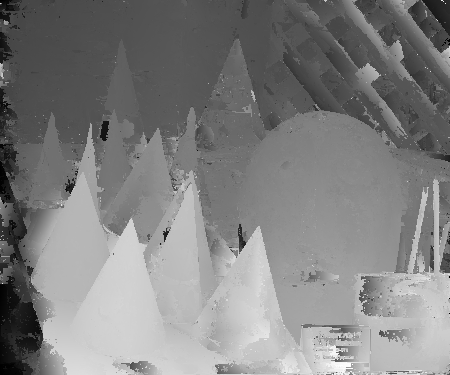
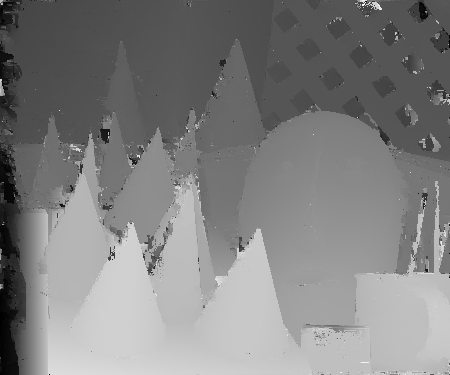
2022_08_15_FixBug_PatchMatchStereoΔΔ

diff --git a/CostComputer.hpp b/CostComputer.hpp
@@ -15,7 +15,7 @@ class CostComputer {
 public:
     /** \brief 代价计算器默认构造 */
     CostComputer() : _imgLeft(nullptr), _imgRight(nullptr), _width(0), _height(0),
-                     _patchSize(0), _minDisp(0), _maxDisp(0) {}
+                     _patchSize(0), _minDisparity(0), _maxDisparity(0) {}
 
     /**
      * \brief 代价计算器初始化
@@ -28,14 +28,14 @@ public:
      * \param max_disp		最大视差
      */
     CostComputer(const uint8 *imgLeft, const uint8 *imgRight, const sint32 &width, const sint32 &height,
-                 const sint32 &patchSize, const sint32 &minDisp, const sint32 &maxDisp) {
+                 const sint32 &patchSize, const sint32 &minDisparity, const sint32 &maxDisparity) {
         _imgLeft = imgLeft;
         _imgRight = imgRight;
         _width = width;
         _height = height;
         _patchSize = patchSize;
-        _minDisp = minDisp;
-        _maxDisp = maxDisp;
+        _minDisparity = minDisparity;
+        _maxDisparity = maxDisparity;
     }
 
     /** \brief 代价计算器析构 */
@@ -64,8 +64,8 @@ public:
     sint32 _patchSize;
 
     /** \brief 最小最大视差 */
-    sint32 _minDisp;
-    sint32 _maxDisp;
+    sint32 _minDisparity;
+    sint32 _maxDisparity;
 };
 
 /**
@@ -97,10 +97,10 @@ public:
                     const PGradient *gradLeft, const PGradient *gradRight,
                     const sint32 &width, const sint32 &height,
                     const sint32 &patchSize,
-                    const sint32 &minDisp, const sint32 &maxDisp,
+                    const sint32 &minDisparity, const sint32 &maxDisparity,
                     const float32 &gamma, const float32 &alpha,
                     const float32 &tauCol, const float32 tauGrad) :
-            CostComputer(imgLeft, imgRight, width, height, patchSize, minDisp, maxDisp) {
+            CostComputer(imgLeft, imgRight, width, height, patchSize, minDisparity, maxDisparity) {
         _gradLeft = gradLeft;
         _gradRight = gradRight;
         _gamma = gamma;
@@ -170,7 +170,7 @@ public:
                 // 计算视差值
                 const float32 d = p.getDisparity(xL, yL);
 
-                if (d < float32(_minDisp) || d > float32(_maxDisp)) {
+                if (d < float32(_minDisparity) || d > float32(_maxDisparity)) {
                     cost += COST_PUNISH;
                     continue;
                 }

diff --git a/main.cpp b/main.cpp
@@ -3,13 +3,13 @@
 #include <opencv2/opencv.hpp>
 
 void dispMatNorm(const sint32 &width, const sint32 &height, const float32 *dispMap, cv::Mat &dispMat) {
-    float32 minDisp = FLT_MAX, maxDisp = FLT_MIN;
+    float32 minDisparity = FLT_MAX, maxDisparity = FLT_MIN;
     for (sint32 i = 0; i < height; i++) {
         for (sint32 j = 0; j < width; j++) {
             const float32 disp = std::abs(dispMap[i * width + j]);
             if (disp != Invalid_Float) {
-                minDisp = std::min(minDisp, disp);
-                maxDisp = std::max(maxDisp, disp);
+                minDisparity = std::min(minDisparity, disp);
+                maxDisparity = std::max(maxDisparity, disp);
             }
         }
     }
@@ -19,7 +19,7 @@ void dispMatNorm(const sint32 &width, const sint32 &height, const float32 *dispM
             if (disp == Invalid_Float) {
                 dispMat.data[i * width + j] = 0;
             } else {
-                dispMat.data[i * width + j] = static_cast<uchar>((disp - minDisp) / (maxDisp - minDisp) * 255);
+                dispMat.data[i * width + j] = static_cast<uchar>((disp - minDisparity) / (maxDisparity - minDisparity) * 255);
             }
         }
     }
@@ -34,11 +34,11 @@ int main() {
     cv::Mat imgRight = cv::imread(pathRight, cv::IMREAD_COLOR);
 
     if (imgLeft.data == nullptr || imgRight.data == nullptr) {
-        std::cout << "读取影像失败！" << std::endl;
+        std::cout << "Read Image Failed!" << std::endl;
         return -1;
     }
     if (imgLeft.rows != imgRight.rows || imgLeft.cols != imgRight.cols) {
-        std::cout << "左右影像尺寸不一致！" << std::endl;
+        std::cout << "Image Size is Inconsistent!" << std::endl;
         return -1;
     }
 
@@ -77,7 +77,7 @@ int main() {
     // t_grad
     psmOption._tauGrad = 2.0f;
     // 传播迭代次数
-    psmOption._numIters = 3;
+    psmOption._numIters = 1;
     // 前端平行窗口
     psmOption._isForceFpw = false;
     // 整数视差精度

diff --git a/PatchMatchStereo.cpp b/PatchMatchStereo.cpp
@@ -218,11 +218,11 @@ void PatchMatchStereo::computeGradient() {
         auto *grad = (n == 0) ? _gradLeft : _gradRight;
         for (sint32 y = 1; y < height - 1; y++) {
             for (sint32 x = 1; x < width - 1; x++) {
-                const auto grad_x =
+                const auto gradX =
                         (-gray[(y - 1) * width + x - 1] + gray[(y - 1) * width + x + 1]) +
                         (-2 * gray[y * width + x - 1] + 2 * gray[y * width + x + 1]) +
                         (-gray[(y + 1) * width + x - 1] + gray[(y + 1) * width + x + 1]);
-                const auto grad_y =
+                const auto gradY =
                         (
                                 -gray[(y - 1) * width + x - 1]
                                 - 2 * gray[(y - 1) * width + x]
@@ -233,8 +233,8 @@ void PatchMatchStereo::computeGradient() {
                                 2 * gray[(y + 1) * width + x] +
                                 gray[(y + 1) * width + x + 1]
                         );
-                grad[y * width + x]._x = sint16(grad_x);
-                grad[y * width + x]._y = sint16(grad_y);
+                grad[y * width + x]._x = sint16(gradX / 8);
+                grad[y * width + x]._y = sint16(gradY / 8);
             }
         }
     }

diff --git a/PMSPropagation.cpp b/PMSPropagation.cpp
@@ -152,8 +152,8 @@ void PMSPropagation::spatialPropagation(const sint32 &x, const sint32 &y, const 
 }
 
 void PMSPropagation::planeRefine(const sint32 &x, const sint32 &y) {
-    auto minDisp = _option._minDisparity;
-    auto maxDisp = _option._maxDisparity;
+    auto minDisparity = _option._minDisparity;
+    auto maxDisparity = _option._maxDisparity;
 
     // 像素p的平面、代价、视差、法线
     auto &planeP = _planeLeft[y * _width + x];
@@ -162,7 +162,7 @@ void PMSPropagation::planeRefine(const sint32 &x, const sint32 &y) {
     PVector3f normP = planeP.getNormal();
 
     // 迭代条件
-    float32 dispUpdate = float32(maxDisp - minDisp) / 2.0f;
+    float32 dispUpdate = float32(maxDisparity - minDisparity) / 2.0f;
     float32 normUpdate = 1.0f;
     const float32 stopThres = 0.1f;
 
@@ -184,7 +184,7 @@ void PMSPropagation::planeRefine(const sint32 &x, const sint32 &y) {
         }
 
         float32 dispPNew = dispP + dispRd;
-        if (dispPNew < float32(minDisp) || dispPNew > float32(maxDisp)) {
+        if (dispPNew < float32(minDisparity) || dispPNew > float32(maxDisparity)) {
             dispUpdate /= 2.0f;
             normUpdate /= 2.0f;
             continue;

diff --git a/PatchMatchStereo.h b/PatchMatchStereo.h
@@ -8,7 +8,6 @@
 #include "PMSPropagation.h"
 #include "PMSType.h"
 #include <vector>
-#include <utility>
 #include <ctime>
 #include <random>
 
